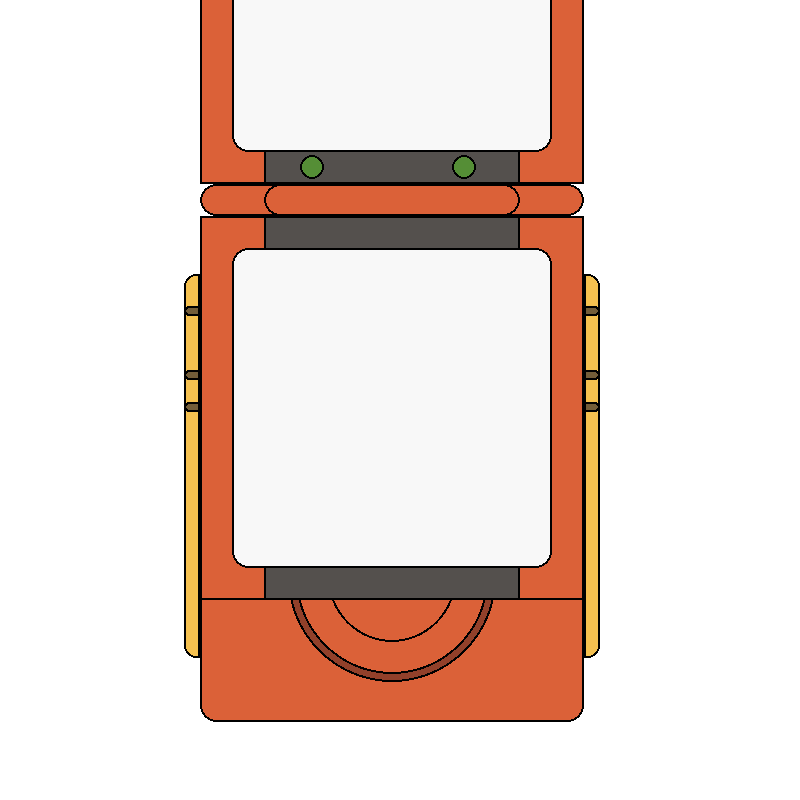
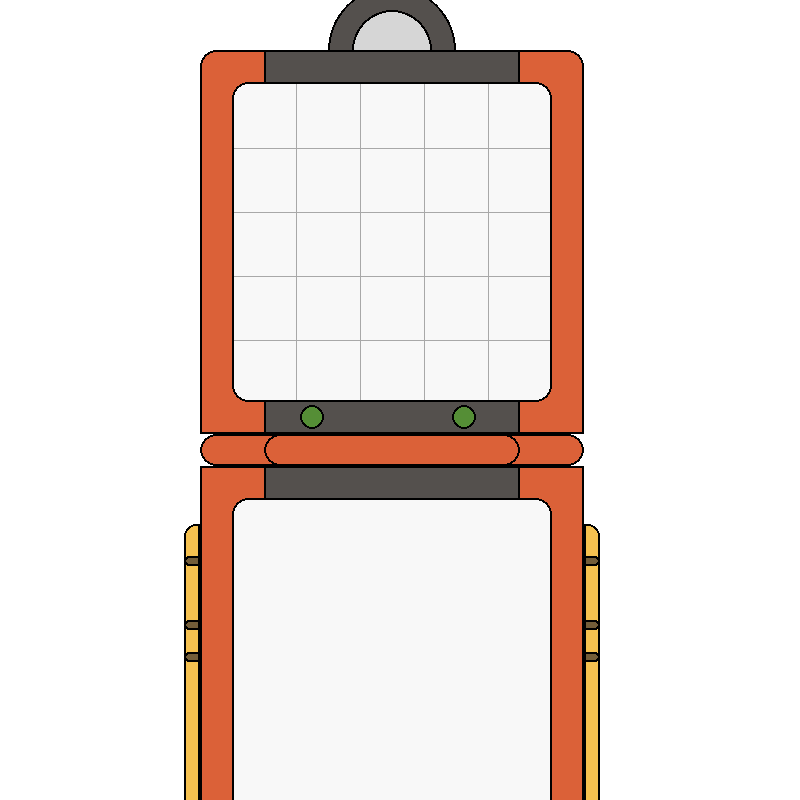
inner grid done

diff --git a/jhoto dex.py b/jhoto dex.py
@@ -5,9 +5,9 @@ colors={
 'secondary':[(84,80,77)],
 'gray':[(214,214,214)],
 'pencil':[(245,193,80),(115,93,57)],
-'red':[(255,0,41),(157,0,27),(255,141,159)],
+'red':[(232,48,48),(157,0,27),(255,141,159)],
 'green':[(85,142,54)],
-'white':[(248,248,248)],
+'white':[(248,248,248),(168,168,168)],
 
 }
 
@@ -174,16 +174,43 @@ class BottomBox:
 
         self.draw_circles()
 
+
+class TopInner:
+    def __init__(self,window,x,y,size):
+        self.window = window
+        self.x = x
+        self.y = y
+        self.size = size
+    
+
+    def draw_grid(self):
+        x = self.x + SIZE
+        while x< self.x + SIZE*self.size[0]:
+            pg.draw.line(self.window,colors['white'][1],(x,self.y),(x,self.y+SIZE*self.size[1]-5))
+            x+=SIZE
+
+        y = self.y + SIZE
+        while y< self.y + SIZE*self.size[1]:
+            pg.draw.line(self.window,colors['white'][1],(self.x+2,y),(self.x+SIZE*self.size[0]-3,y))
+            y+=SIZE
+
+    
+    def draw(self):
+
+        self.draw_grid()
         
 
 def draw():
     window.fill(-1)
     X=200
-    Y=-200
+    Y=50
 
     color = colors['primary']
     tb = TopBox(window,X,Y,box_sizes[0],color)
     tb.draw()
+
+    ti = TopInner(window,tb.x+SIZE//2,tb.y+SIZE//2 +2,[tb.size[0]-1,tb.size[1]-1])
+    ti.draw()
 
     bt = BottomBox(window,X,Y+box_sizes[0][1]*2*SIZE+30-4,box_sizes[1])
     bt.draw()
@@ -192,6 +219,10 @@ def draw():
     tb.draw()
 
     bt.draw_pencils()  
+
+
+    
+    
 
     
 def loop():
